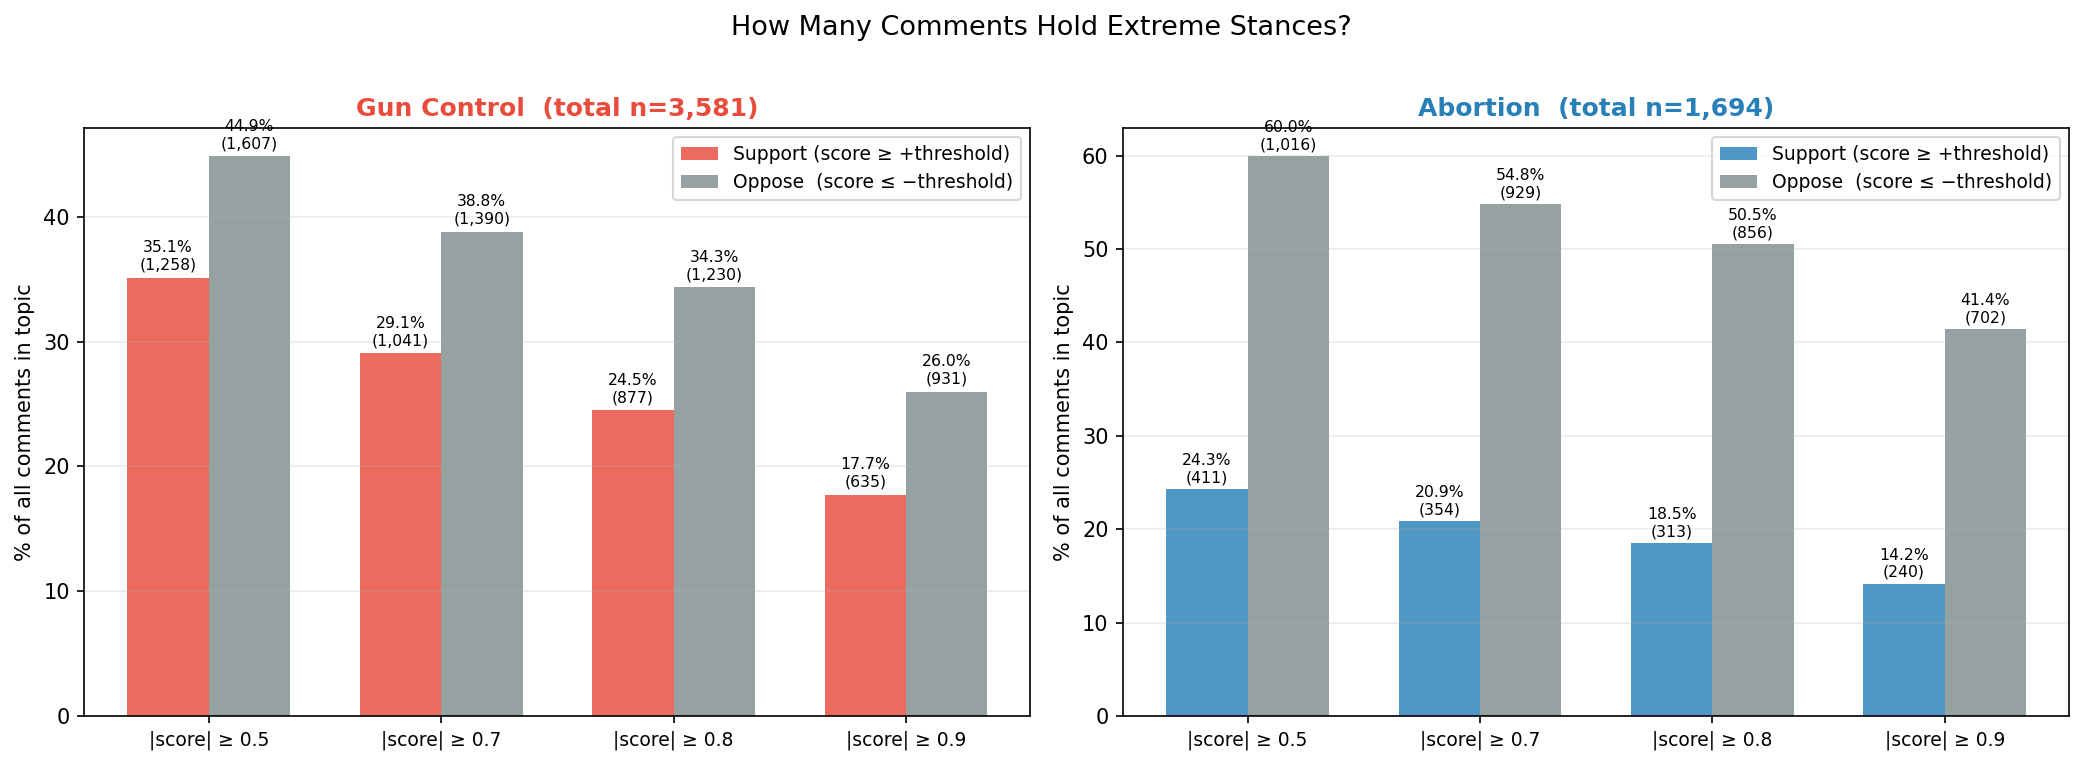
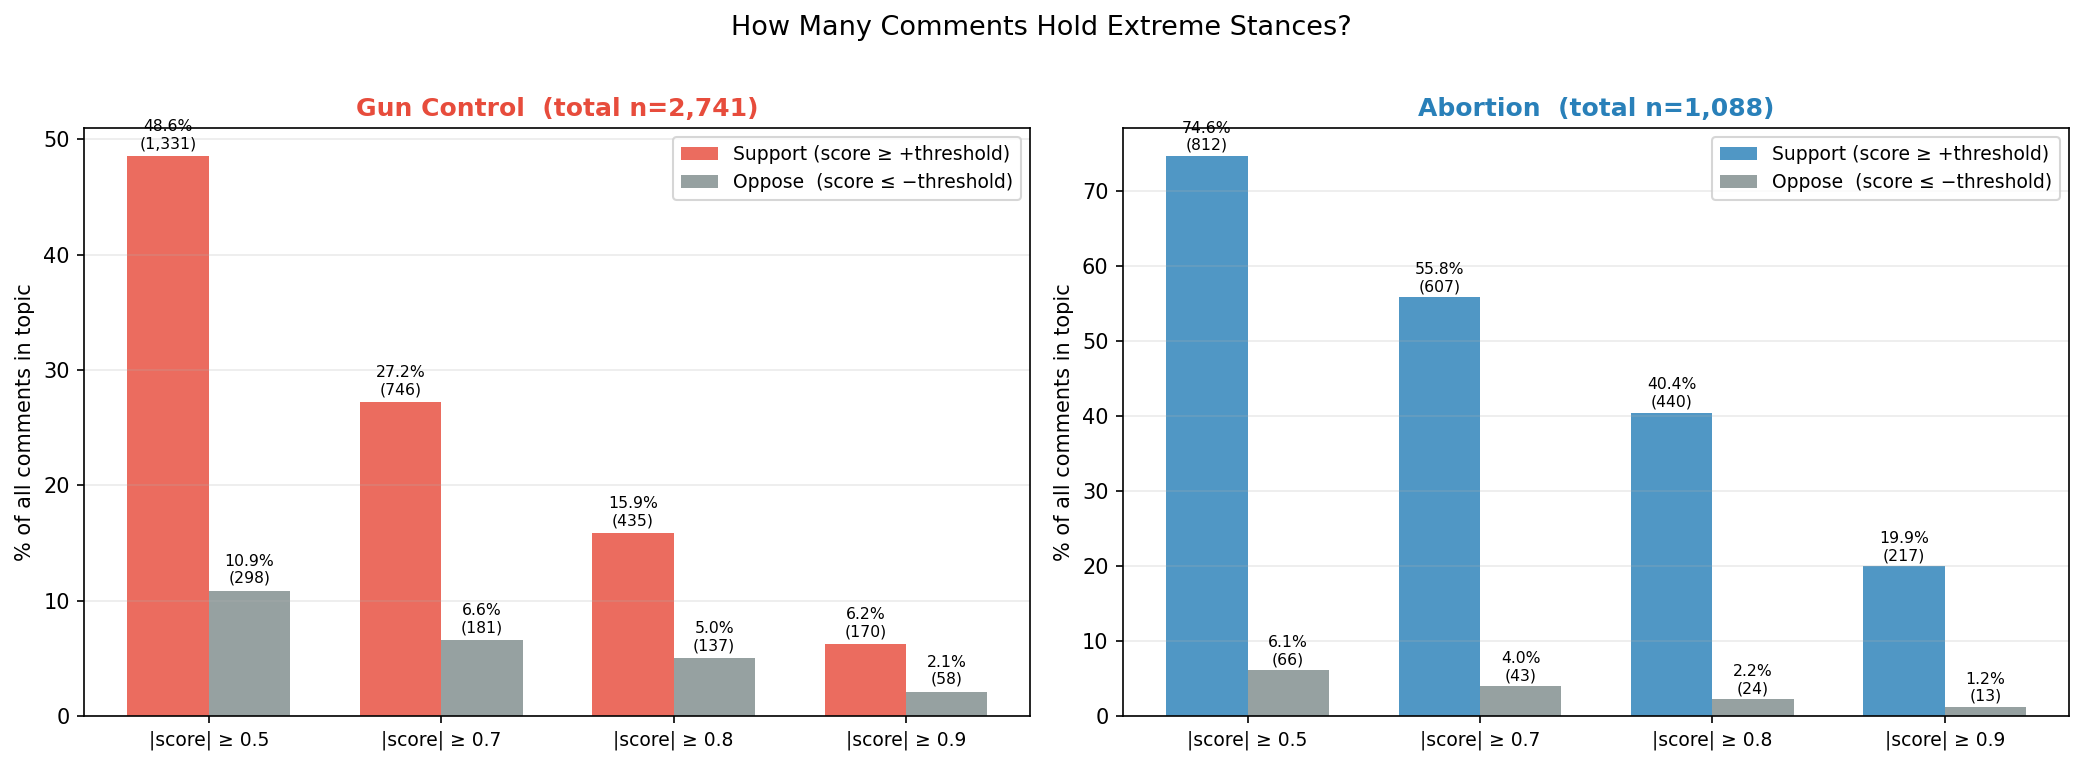
Update pipeline scripts, stance charts, and gitignore for model checkpoints
- Exclude all model/*.pt checkpoints via .gitignore (476 MB each, exceed GitHub limit)
- Update stage1_cluster.py: per-author deduplication improvements
- Update stage2_infer.py: stance inference pipeline updates
- Update visualize_stance.py and stance charts
- Add run_pipeline.sh end-to-end pipeline runner
- Update model/cv_results.json with latest cross-validation results

diff --git a/stage1_cluster.py b/stage1_cluster.py
@@ -16,12 +16,15 @@ from sklearn.feature_extraction.text import TfidfVectorizer
 from sentence_transformers import SentenceTransformer
 import hdbscan
 
-DATA_PATH = os.path.join(
-    os.environ["USERPROFILE"],
-    ".cache", "kagglehub", "datasets",
-    "i221113hadiyatanveer",
-    "the-pushshift-reddit-dataset-submissions",
-    "versions", "1", "RC_2019-04.zst"
+DATA_PATH = os.environ.get(
+    "REDDIT_DATA_PATH",
+    os.path.join(
+        os.path.expanduser("~"),
+        ".cache", "kagglehub", "datasets",
+        "i221113hadiyatanveer",
+        "the-pushshift-reddit-dataset-submissions",
+        "versions", "1", "RC_2019-04.zst"
+    )
 )
 
 SBERT_MODEL = "all-MiniLM-L6-v2"
@@ -29,10 +32,17 @@ MIN_BODY_LEN = 20
 MAX_COMMENTS = 500_000
 
 
-def stream_subreddit(data_path: str, subreddit: str, max_comments: int):
-    """Yield (comment_id, body, author, score) for non-deleted comments in target subreddit."""
+def stream_subreddit(data_path: str, subreddit: str, max_comments: int,
+                     max_per_author: int = 0):
+    """Yield (comment_id, body, author, score) for non-deleted comments in target subreddit.
+
+    max_per_author: if > 0, cap each author to this many comments globally (first-seen
+    wins).  The per-cluster author dedup in run() still runs afterwards; this is a cheap
+    pre-filter that stops prolific authors from dominating the embedding space.
+    """
     target = subreddit.lower()
     count = 0
+    author_seen: dict[str, int] = {}  # author -> number of comments already yielded
     with open(data_path, "rb") as fh:
         dctx = zstd.ZstdDecompressor()
         with dctx.stream_reader(fh) as reader:
@@ -60,13 +70,18 @@ def stream_subreddit(data_path: str, subreddit: str, max_comments: int):
                     author = rec.get("author", "[unknown]")
                     if author in ("[deleted]", "[removed]", ""):
                         author = "[unknown]"
+                    if max_per_author > 0 and author_seen.get(author, 0) >= max_per_author:
+                        continue
                     cid = rec.get("id") or rec.get("name", "")
                     score = int(rec.get("score", 1))
                     yield cid, body, author, score
+                    author_seen[author] = author_seen.get(author, 0) + 1
                     count += 1
                     if count >= max_comments:
                         break
-    print(f"  Streamed {count:,} comments from r/{subreddit}")
+    print(f"  Streamed {count:,} comments from r/{subreddit}"
+          + (f"  (max_per_author={max_per_author}, unique authors={len(author_seen):,})"
+             if max_per_author else ""))
 
 
 def extract_keywords(texts: list[str], top_n: int = 8) -> str:
@@ -86,7 +101,7 @@ def extract_keywords(texts: list[str], top_n: int = 8) -> str:
 
 
 def run(subreddit: str, min_cluster_size: int, max_comments: int,
-        output_dir: str, umap_dims: int):
+        output_dir: str, umap_dims: int, max_per_author: int = 0):
     print(f"\n=== Stage 1: Clustering r/{subreddit} ===")
 
     cache_dir = output_dir
@@ -114,7 +129,8 @@ def run(subreddit: str, min_cluster_size: int, max_comments: int,
         # Stream comments
         print("Streaming comments...")
         ids, bodies, authors, scores = [], [], [], []
-        for cid, body, author, score in stream_subreddit(DATA_PATH, subreddit, max_comments):
+        for cid, body, author, score in stream_subreddit(DATA_PATH, subreddit, max_comments,
+                                                         max_per_author=max_per_author):
             ids.append(cid)
             bodies.append(body)
             authors.append(author)
@@ -148,33 +164,86 @@ def run(subreddit: str, min_cluster_size: int, max_comments: int,
     cluster_input = embeddings
     if umap_dims > 0 and umap_dims < embeddings.shape[1]:
         print(f"Reducing {embeddings.shape[1]}→{umap_dims} dims with UMAP...")
+
+        # Try GPU UMAP (RAPIDS cuml) first, fall back to CPU umap-learn
+        cuml_path = "/mnt/NewSSD/CS_project/pypackages"
+        _used_gpu = False
         try:
-            import umap
-        except ImportError:
-            print("  umap-learn not installed. Run: pip install umap-learn")
-            print("  Skipping UMAP, using full embeddings.")
-        else:
-            reducer = umap.UMAP(
+            import sys
+            if cuml_path not in sys.path:
+                sys.path.insert(0, cuml_path)
+            from cuml.manifold import UMAP as cuUMAP
+            import cupy as cp
+            print("  Using GPU UMAP (cuml)...")
+            reducer = cuUMAP(
                 n_components=umap_dims,
                 n_neighbors=15,
                 min_dist=0.0,
                 metric="cosine",
                 random_state=42,
-                low_memory=True,
             )
             cluster_input = reducer.fit_transform(embeddings)
-            print(f"  Reduced shape: {cluster_input.shape}")
+            if hasattr(cluster_input, "get"):          # cupy array → numpy
+                cluster_input = cluster_input.get()
+            _used_gpu = True
+            print(f"  Reduced shape (GPU): {cluster_input.shape}")
+        except Exception as e:
+            if _used_gpu:
+                raise
+            print(f"  cuml not available ({e}), falling back to CPU umap-learn...")
+            try:
+                import umap
+            except ImportError:
+                print("  umap-learn not installed. Run: pip install umap-learn")
+                print("  Skipping UMAP, using full embeddings.")
+            else:
+                reducer = umap.UMAP(
+                    n_components=umap_dims,
+                    n_neighbors=15,
+                    min_dist=0.0,
+                    metric="cosine",
+                    random_state=42,
+                    low_memory=True,
+                )
+                cluster_input = reducer.fit_transform(embeddings)
+                print(f"  Reduced shape (CPU): {cluster_input.shape}")
 
-    # 3. HDBSCAN clustering
+    # 3. HDBSCAN clustering — try GPU (cuml) first, fall back to CPU
     print(f"Clustering (min_cluster_size={min_cluster_size})...")
-    clusterer = hdbscan.HDBSCAN(
-        min_cluster_size=min_cluster_size,
-        min_samples=5,
-        metric="euclidean",
-        cluster_selection_method="eom",
-        core_dist_n_jobs=-1,
-    )
-    labels = clusterer.fit_predict(cluster_input)
+    _used_gpu_hdbscan = False
+    try:
+        cuml_path = "/mnt/NewSSD/CS_project/reddit_env/lib/python3.12/site-packages"
+        import sys
+        if cuml_path not in sys.path:
+            sys.path.insert(0, cuml_path)
+        from cuml.cluster import HDBSCAN as cuHDBSCAN
+        import cupy as cp
+        print("  Using GPU HDBSCAN (cuml)...")
+        gpu_clusterer = cuHDBSCAN(
+            min_cluster_size=min_cluster_size,
+            min_samples=5,
+            metric="euclidean",
+            cluster_selection_method="eom",
+        )
+        labels = gpu_clusterer.fit_predict(cluster_input.astype("float32"))
+        if hasattr(labels, "get"):
+            labels = labels.get()
+        import numpy as _np
+        labels = _np.asarray(labels)
+        _used_gpu_hdbscan = True
+        print("  GPU HDBSCAN done.")
+    except Exception as e:
+        if _used_gpu_hdbscan:
+            raise
+        print(f"  cuml HDBSCAN unavailable ({e}), using CPU hdbscan...")
+        clusterer = hdbscan.HDBSCAN(
+            min_cluster_size=min_cluster_size,
+            min_samples=5,
+            metric="euclidean",
+            cluster_selection_method="eom",
+            core_dist_n_jobs=-1,
+        )
+        labels = clusterer.fit_predict(cluster_input)
 
     n_clusters = len(set(labels)) - (1 if -1 in labels else 0)
     noise_count = int((labels == -1).sum())
@@ -253,6 +322,9 @@ if __name__ == "__main__":
     parser.add_argument("--output-dir", default=os.path.join(os.path.dirname(os.path.abspath(__file__)), "data"))
     parser.add_argument("--umap-dims", type=int, default=50,
                         help="UMAP target dimensions before HDBSCAN (0 = skip UMAP)")
+    parser.add_argument("--max-per-author", type=int, default=0,
+                        help="Global per-author cap at stream time (0 = no limit). "
+                             "Complements the per-cluster author dedup done after HDBSCAN.")
     args = parser.parse_args()
 
     run(
@@ -261,4 +333,5 @@ if __name__ == "__main__":
         max_comments=args.max_comments,
         output_dir=args.output_dir,
         umap_dims=args.umap_dims,
+        max_per_author=args.max_per_author,
     )

diff --git a/visualize_stance.py b/visualize_stance.py
@@ -19,12 +19,12 @@ import matplotlib.patches as mpatches
 from matplotlib.ticker import MultipleLocator
 
 SCRIPT_DIR = os.path.dirname(os.path.abspath(__file__))
-SCORES_DIR = os.path.join(SCRIPT_DIR, "stance_scores")
+SCORES_DIR = "/mnt/NewSSD/CS_project/Reddit-Dataset/stance_scores"
 CHART_DIR  = os.path.join(SCRIPT_DIR, "stance_charts")
-IDS_CACHE  = os.path.join(SCRIPT_DIR, "data", "ids_politics.json")
+IDS_CACHE  = "/mnt/NewSSD/CS_project/Reddit-Dataset/data/ids_politics.json"
 
-GUN_IDS      = {775, 708, 750, 705, 456, 725}
-ABORTION_IDS = {132, 131, 203}
+GUN_IDS      = {90, 220, 344}
+ABORTION_IDS = {160}
 THRESHOLDS   = [0.5, 0.7, 0.8, 0.9]
 
 os.makedirs(CHART_DIR, exist_ok=True)
@@ -52,11 +52,10 @@ print(f"  {len(data):,} comments total  ({n_gun:,} gun, {n_abrt:,} abortion)")
 
 # cluster short labels  (sorted by size, largest first)
 CLUSTER_META = {
-    775: ("Gun Control", 2620), 708: ("Gun Control",  461),
-    750: ("Gun Control",  163), 705: ("Gun Control",  128),
-    456: ("Gun Control",  112), 725: ("Gun Control",   97),
-    132: ("Abortion",   1491), 131: ("Abortion",      127),
-    203: ("Abortion",     76),
+    90: ("Gun Control", 89),
+    160: ("Abortion", 1088),
+    220: ("Gun Control", 311),
+    344: ("Gun Control", 2341),
 }
 def clabel(cid):
     topic, n = CLUSTER_META[cid]

diff --git a/stage2_infer.py b/stage2_infer.py
@@ -15,12 +15,15 @@ import zstandard as zstd
 from transformers import RobertaTokenizer, RobertaModel
 
 SCRIPT_DIR = os.path.dirname(os.path.abspath(__file__))
-DATA_PATH = os.path.join(
-    os.environ["USERPROFILE"],
-    ".cache", "kagglehub", "datasets",
-    "i221113hadiyatanveer",
-    "the-pushshift-reddit-dataset-submissions",
-    "versions", "1", "RC_2019-04.zst"
+DATA_PATH = os.environ.get(
+    "REDDIT_DATA_PATH",
+    os.path.join(
+        os.path.expanduser("~"),
+        ".cache", "kagglehub", "datasets",
+        "i221113hadiyatanveer",
+        "the-pushshift-reddit-dataset-submissions",
+        "versions", "1", "RC_2019-04.zst"
+    )
 )
 
 
